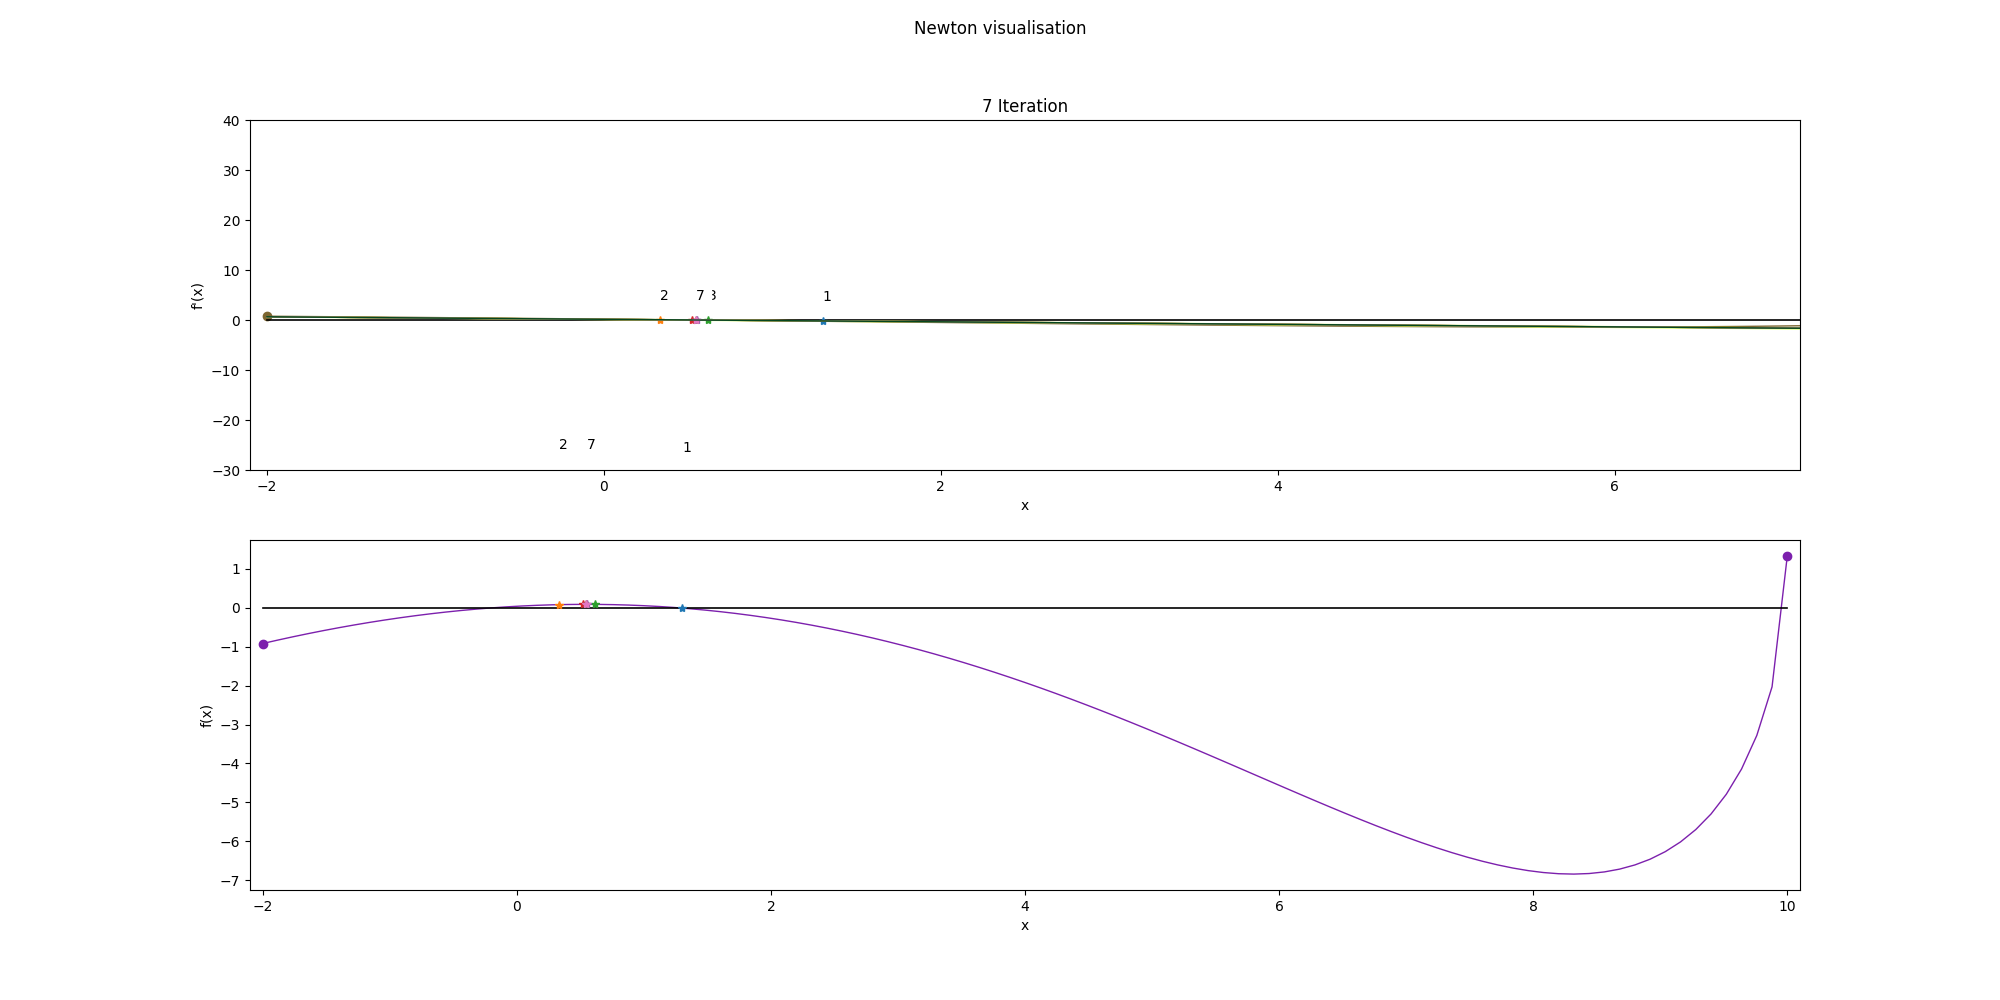
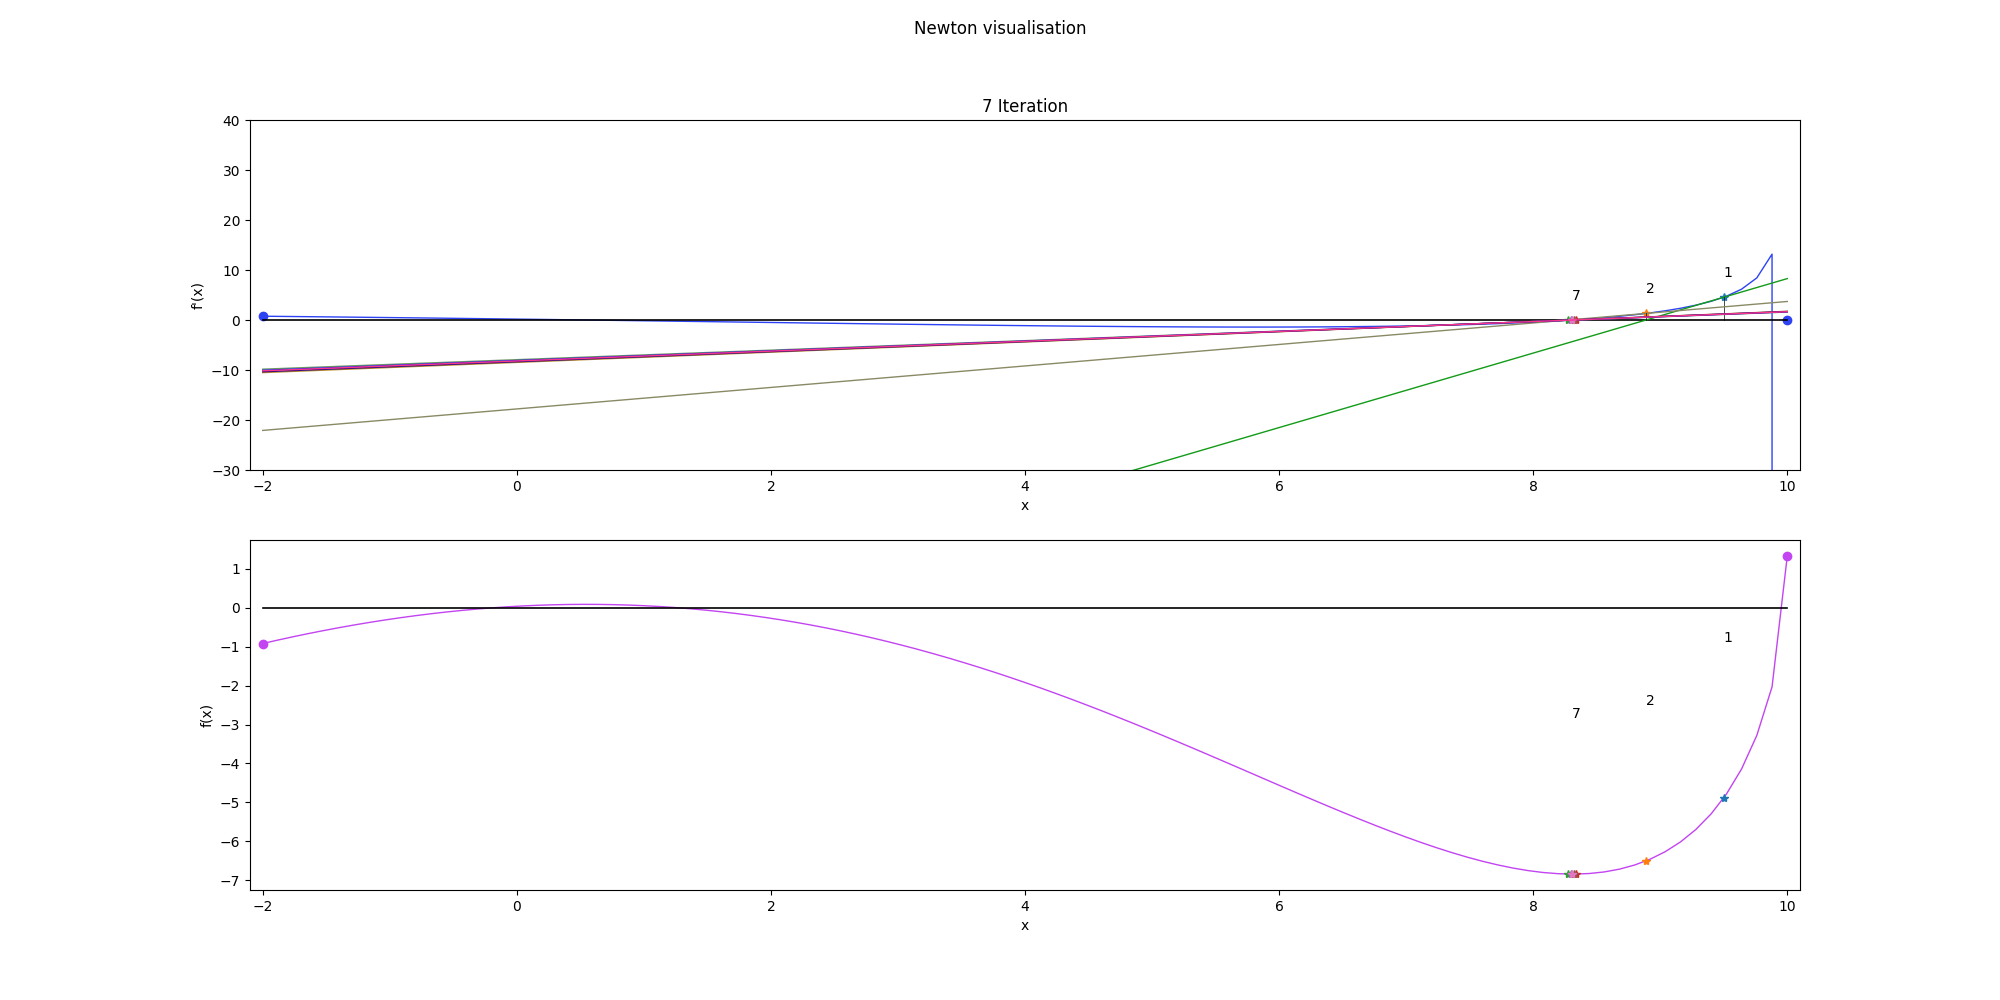
nsearch

Changed region(s): [[0.124, 0.279, 0.899, 0.372], [0.279, 0.589, 0.31, 0.62]]

diff --git a/12_newton_1d/nsearch.py b/12_newton_1d/nsearch.py
@@ -5,8 +5,6 @@ matplotlib.use('Agg')
 import matplotlib.pyplot as plt
 import random
 
-import numpy as np
-
 
 def f(x):
     return -2 * np.sin(np.sqrt(abs(x / 2 + 10))) - x * np.sin(np.sqrt(abs(x - 10)))
@@ -121,7 +119,8 @@ def f(x): return x**2 - 10*np.cos(0.3*np.pi*x) - 20
 
 def df(x): return 2*x + 3*np.pi*np.sin(0.3*np.pi*x)
 
-def ddf(x): return 2 + 0.9*(np.pi**2)*np.cos(0.3*np.pi*x)'''
+def ddf(x): return 2 + 0.9*(np.pi**2)*np.cos(0.3*np.pi*x)
+'''
 
 
 def nsearch(tol, x0):
@@ -164,7 +163,7 @@ def drawdf(a, b, h, ax1):
     ax1.set_ylabel("f'(x)")
 
     ax1.plot([a, b], [0, 0], c=(0, 0, 0), lw=1.2)
-    ax1.set_xlim([-2.1, 7.1])
+    ax1.set_xlim([-2.1, 10.1])
     ax1.set_ylim([-30, 40])
 
 
@@ -243,7 +242,7 @@ def main():
     print("Find:")
     interval = [-2, 10] #for drawing
     tol = 1e-5
-    [xmin, f, neval, coords] = nsearch(tol, 1.3)
+    [xmin, f, neval, coords] = nsearch(tol, 9.5) #МЕНЯЙ Х0 1-9.5, 2-0.5
     print([xmin, f, neval])
     newtondrawfig(interval, coords)
 
